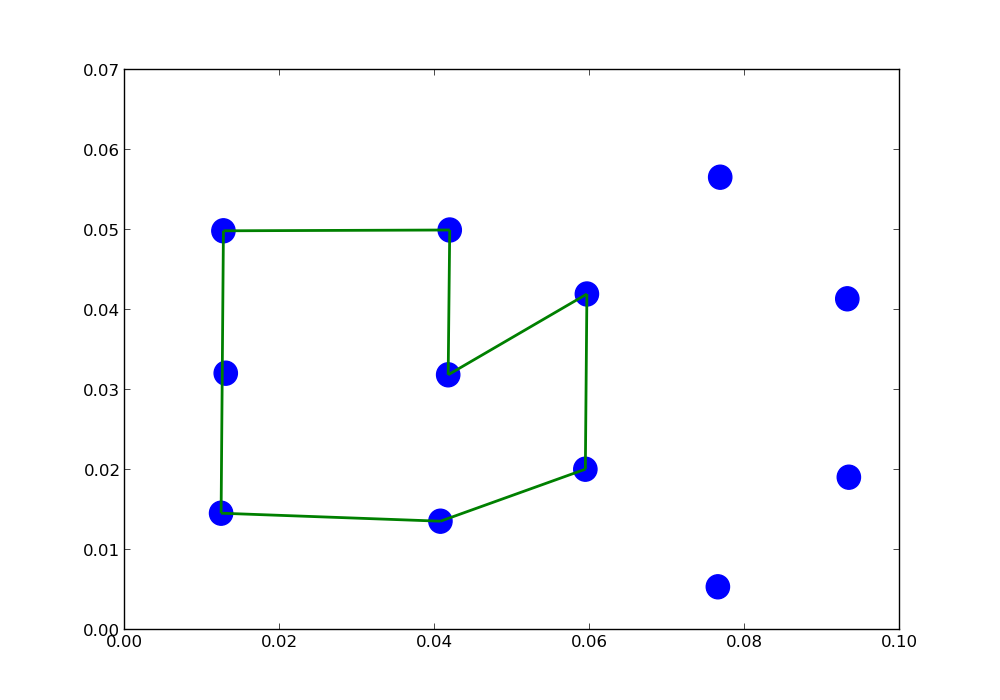
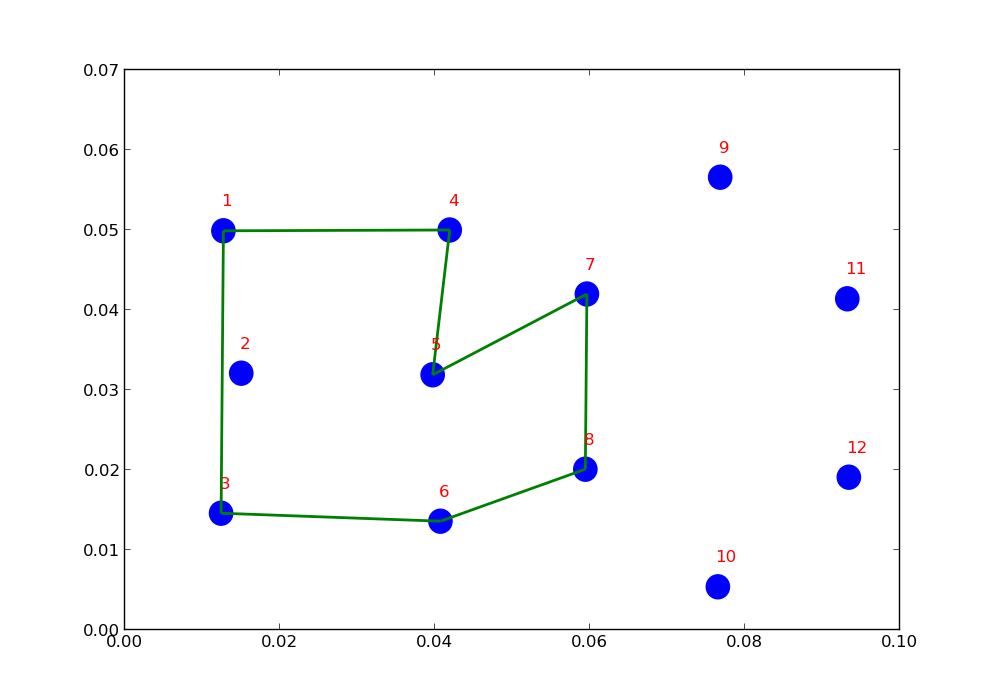
added peg labels

diff --git a/scripts/plotter.py b/scripts/plotter.py
@@ -4,10 +4,10 @@ import IPython
 from state_space import StateSpace
 
 peg_locations = {1: (0.0127, 0.0499),
-				 2: (0.013, 0.0321),
+				 2: (0.015, 0.0321),
 				 3: (0.0124, 0.0146),
 				 4: (0.0419, 0.0500),
-				 5: (0.0417, 0.0319),
+				 5: (0.0397, 0.0319),
 				 6: (0.0407, 0.0136),
 				 7: (0.0596, 0.0420),
 				 8: (0.0594, 0.0201),
@@ -24,13 +24,18 @@ class Plotter:
 
 	def plot_pegs(self):		
 		fig = self.fig
-		fig.gca().set_autoscale_on(False)
+		fig.gca().set_autoscale_on(True)
 		for key in peg_locations:
 			x,y = peg_locations[key]
 			circle = plt.Circle((x,y), 0.0015, color='b')
 			fig.gca().add_artist(circle)
 
-		
+	def plot_labels(self):
+		fig = self.fig
+		for peg in peg_locations.keys():
+			coord = peg_locations[peg]
+			fig.gca().text(coord[0], coord[1] + 0.002, str(peg), color='r')
+
 	def plot_lines(self, lines):
 		edges = []
 		for line in lines:
@@ -42,18 +47,10 @@ class Plotter:
 		fig.gca().add_collection(lc)
 		fig.savefig('test2.png')
 
-	def get_coord_edges(self, edges):
-		
-		coord = ()
-		for edge in edges:
-			line = (start, end)
-			IPython.embed()
-			coord += (line,)
-		return coord
-
 if __name__ == '__main__':
     defaultStateSpace = StateSpace([[1, True, 0], [3, True, 0], [6, True, 0], 
         [8, True, 0], [7, True, 0], [5, False, 0], [4, True, 0]], [2], [9, 10, 11, 12])
     a = Plotter()
     a.plot_pegs()
+    a.plot_labels()
     a.plot_lines(defaultStateSpace.getInOrderEdges())

diff --git a/scripts/state_space.py b/scripts/state_space.py
@@ -35,12 +35,12 @@ class StateSpace:
         edges.append(lastEdge)
         return edges
 
-# def main():
-#     defaultStateSpace = StateSpace()
-#     defaultStateSpace.inOrder = [[1, True, 0], [3, True, 0], [6, True, 0], 
-#         [8, True, 0], [7, True, 0], [5, False, 0], [4, True, 0]]
-#     defaultStateSpace.inside = [2]
-#     defaultStateSpace.outside = [9, 10, 11, 12]
-#     print defaultStateSpace.getInOrderEdges()
-# if __name__ == '__main__':
-#     main()
+def main():
+    defaultStateSpace = StateSpace()
+    defaultStateSpace.inOrder = [[1, True, 0], [3, True, 0], [6, True, 0], 
+        [8, True, 0], [7, True, 0], [5, False, 0], [4, True, 0]]
+    defaultStateSpace.inside = [2]
+    defaultStateSpace.outside = [9, 10, 11, 12]
+    print defaultStateSpace.getInOrderEdges()
+if __name__ == '__main__':
+    main()
